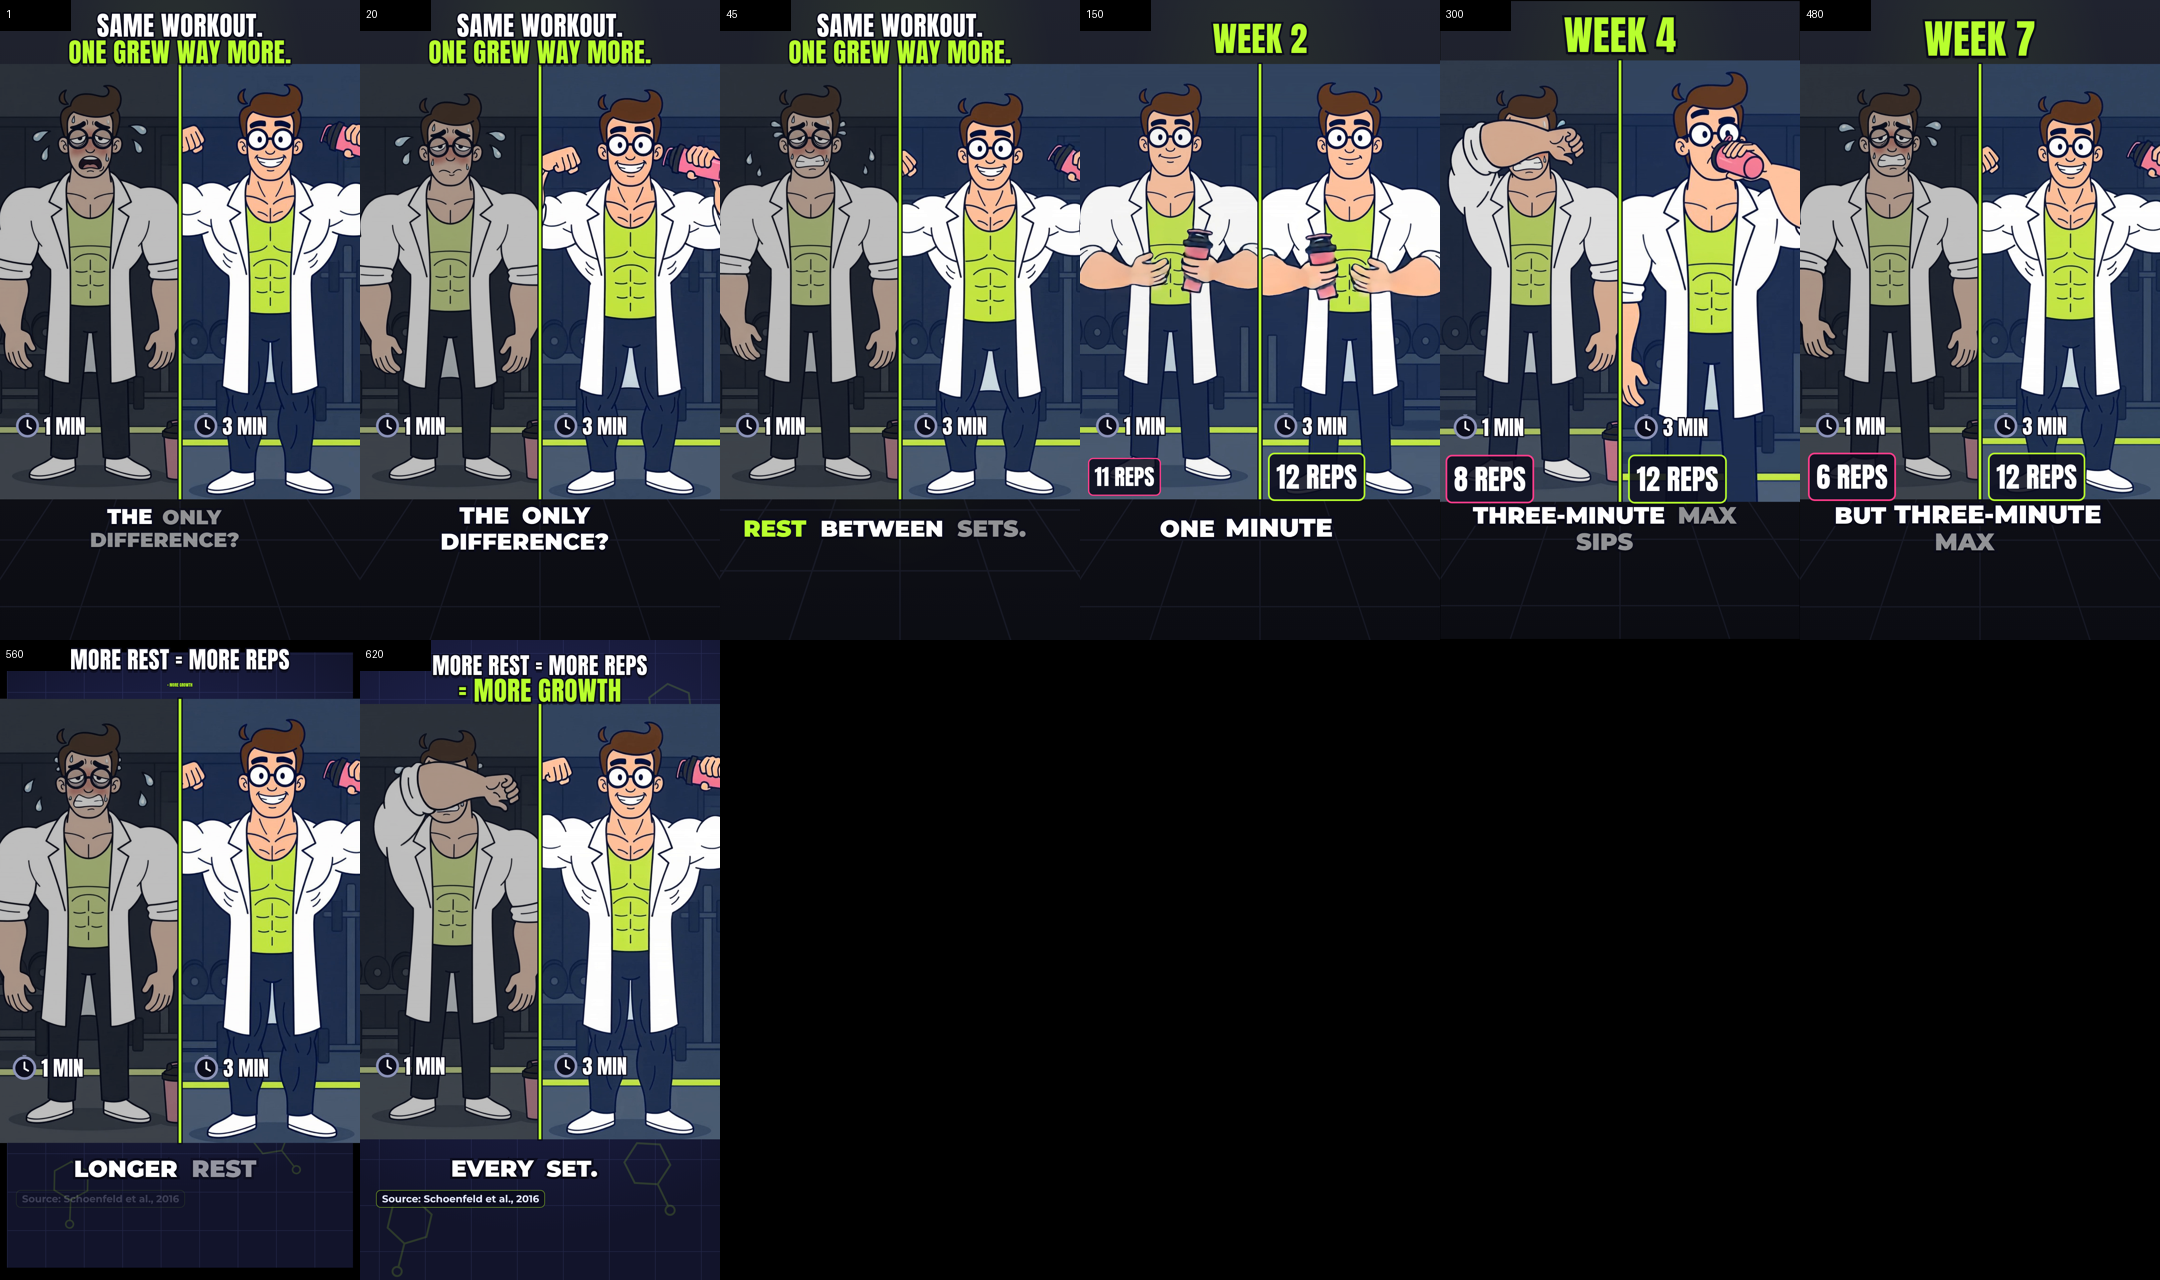
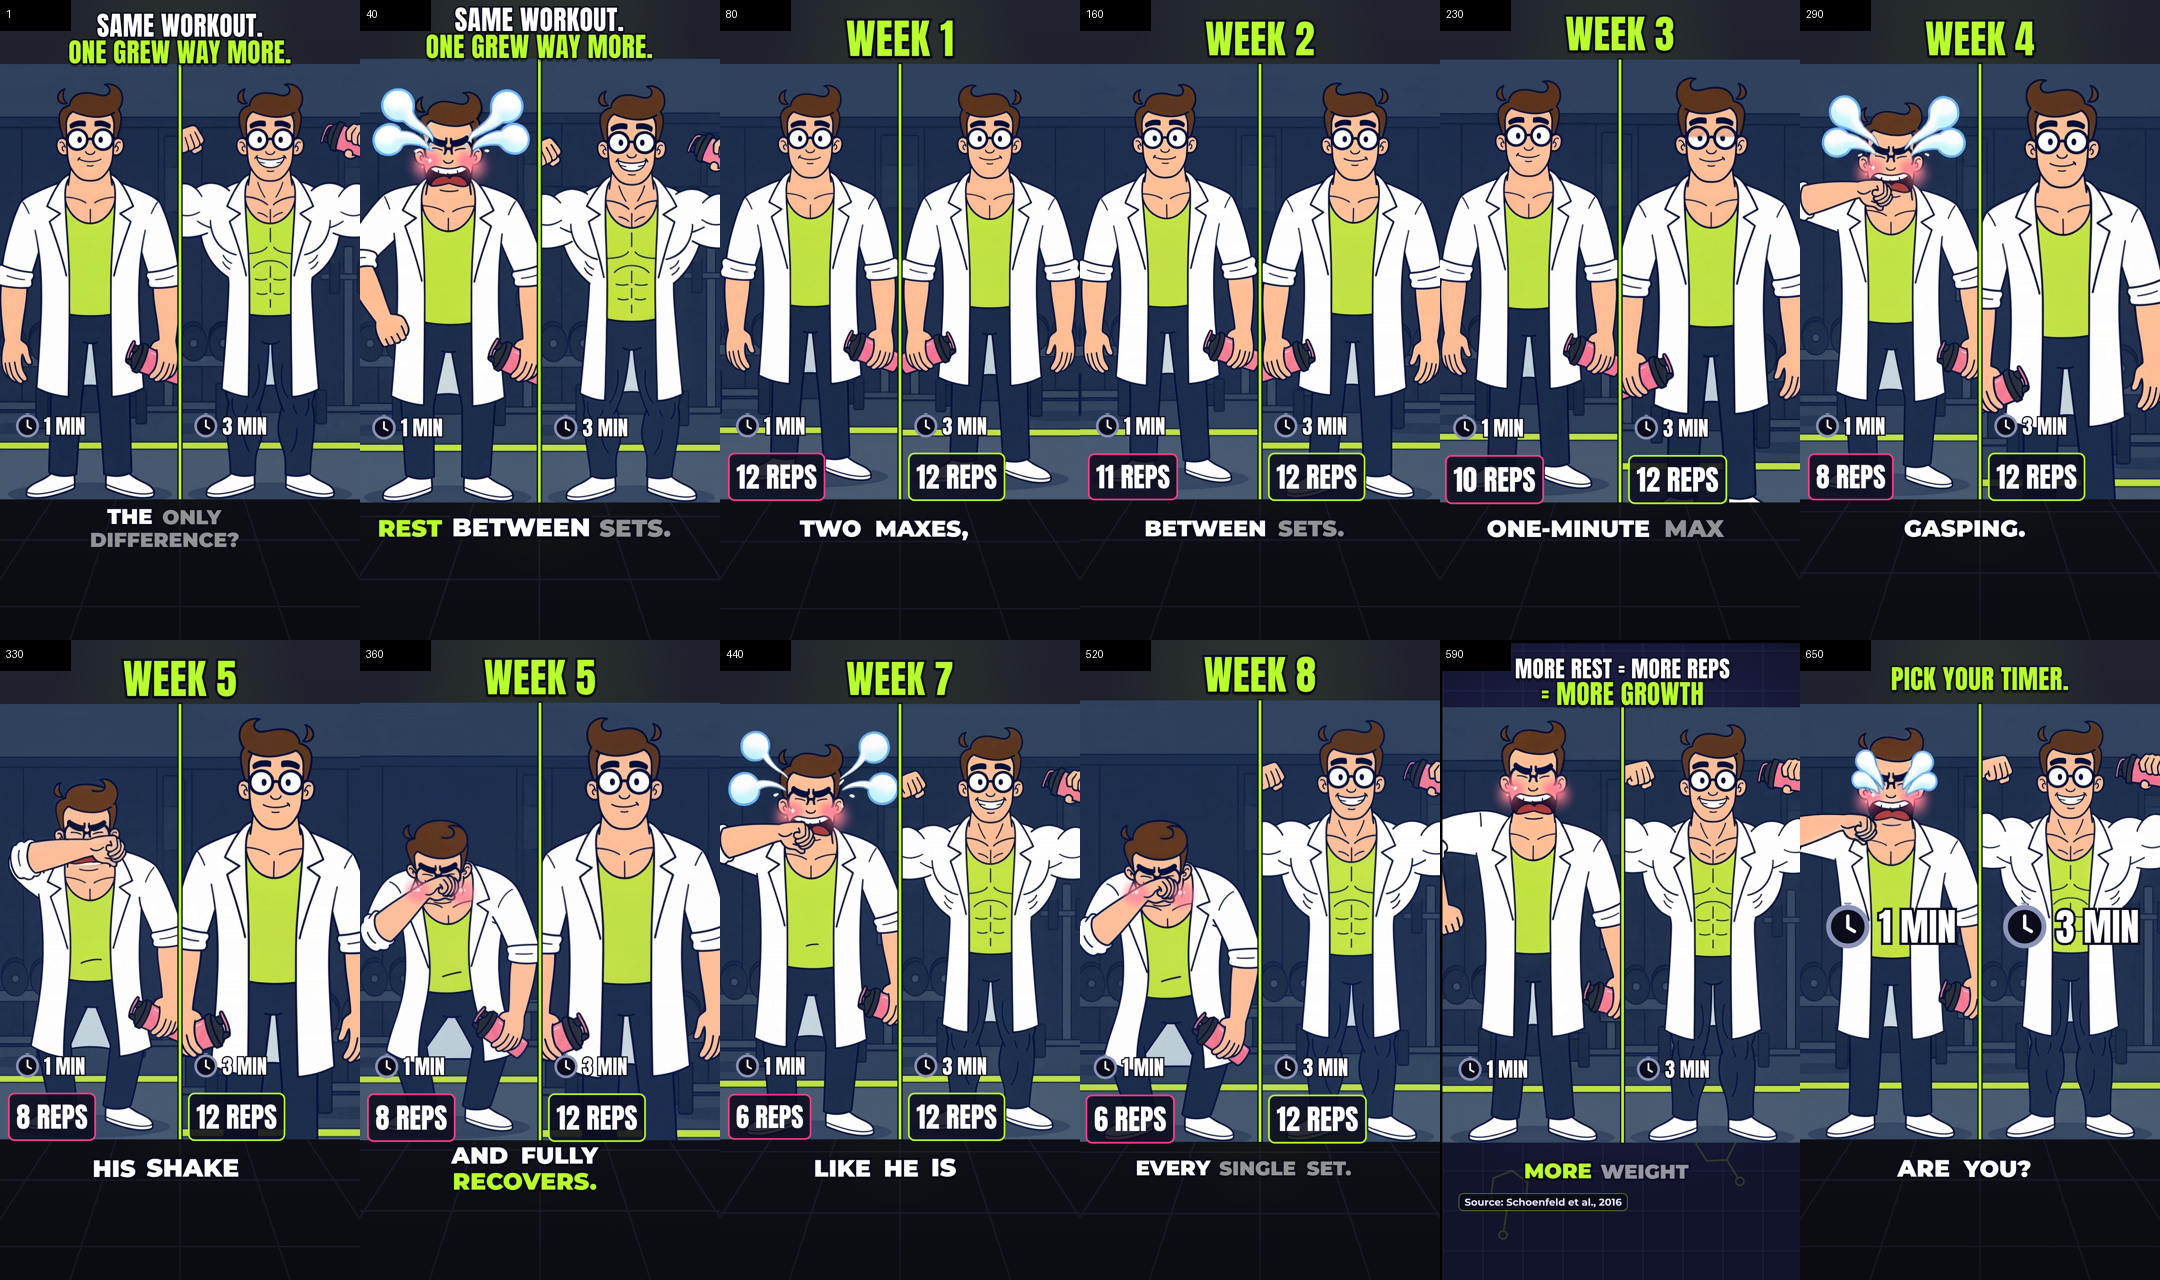
rest-1-vs-3 final: AVERAGE-MAX start, 3-min side grows to BIG-MAX, full colors
- 2 new clips (avg-idle, avg-exhausted) from one AVERAGE-MAX pose image: 4,851 credits
- week 1 both AVERAGE; 1-min stays AVERAGE (exhausted from week 3, <= +5%); 3-min AVERAGE +5%/week, BIG-MAX from week 6
- hook: AVERAGE exhausted vs BIG-MAX; desaturation filter removed; avg-exhausted starts at its sweaty part
- 22.3 s, -14.2 LUFS

Claude-Session: https://claude.ai/code/session_01GoqCQX4U6VGTC9K9XRct2V

diff --git a/src/short/clips/Versus.tsx b/src/short/clips/Versus.tsx
@@ -8,9 +8,12 @@ import { SceneProps } from '../scenes/types';
 import { TimerBadge } from '../experiment/SubjectsLayer';
 
 const CLIP_FRAMES = 150;
+// clips whose wanted state starts later (e.g. avg-exhausted is calm for ~2 s): start there (comp frames)
+const CLIP_START: Record<string, number> = { 'avg-exhausted': 60 };
 
 const Half: React.FC<{ side: 'left' | 'right'; clip: string; scale: number; freeze: boolean; mirror?: boolean }> = ({ side, clip, scale, freeze, mirror }) => {
-  const video = <OffthreadVideo src={staticFile(`clips/${clip}.mp4`)} muted style={{ width: '100%', height: '100%', objectFit: 'cover' }} />;
+  const start = CLIP_START[clip] ?? 0;
+  const video = <OffthreadVideo src={staticFile(`clips/${clip}.mp4`)} startFrom={start} muted style={{ width: '100%', height: '100%', objectFit: 'cover' }} />;
   return (
     <div style={{ position: 'absolute', left: side === 'left' ? 0 : VERSUS.half, top: VERSUS.top, width: VERSUS.half, height: VERSUS.bottom - VERSUS.top, overflow: 'hidden' }}>
       <div
@@ -21,7 +24,7 @@ const Half: React.FC<{ side: 'left' | 'right'; clip: string; scale: number; free
           transformOrigin: '50% 12%', // grows from the neck down: the head never leaves the frame
         }}
       >
-        {freeze ? <Freeze frame={60}>{video}</Freeze> : <Loop durationInFrames={CLIP_FRAMES}>{video}</Loop>}
+        {freeze ? <Freeze frame={40}>{video}</Freeze> : <Loop durationInFrames={CLIP_FRAMES - start}>{video}</Loop>}
       </div>
     </div>
   );
